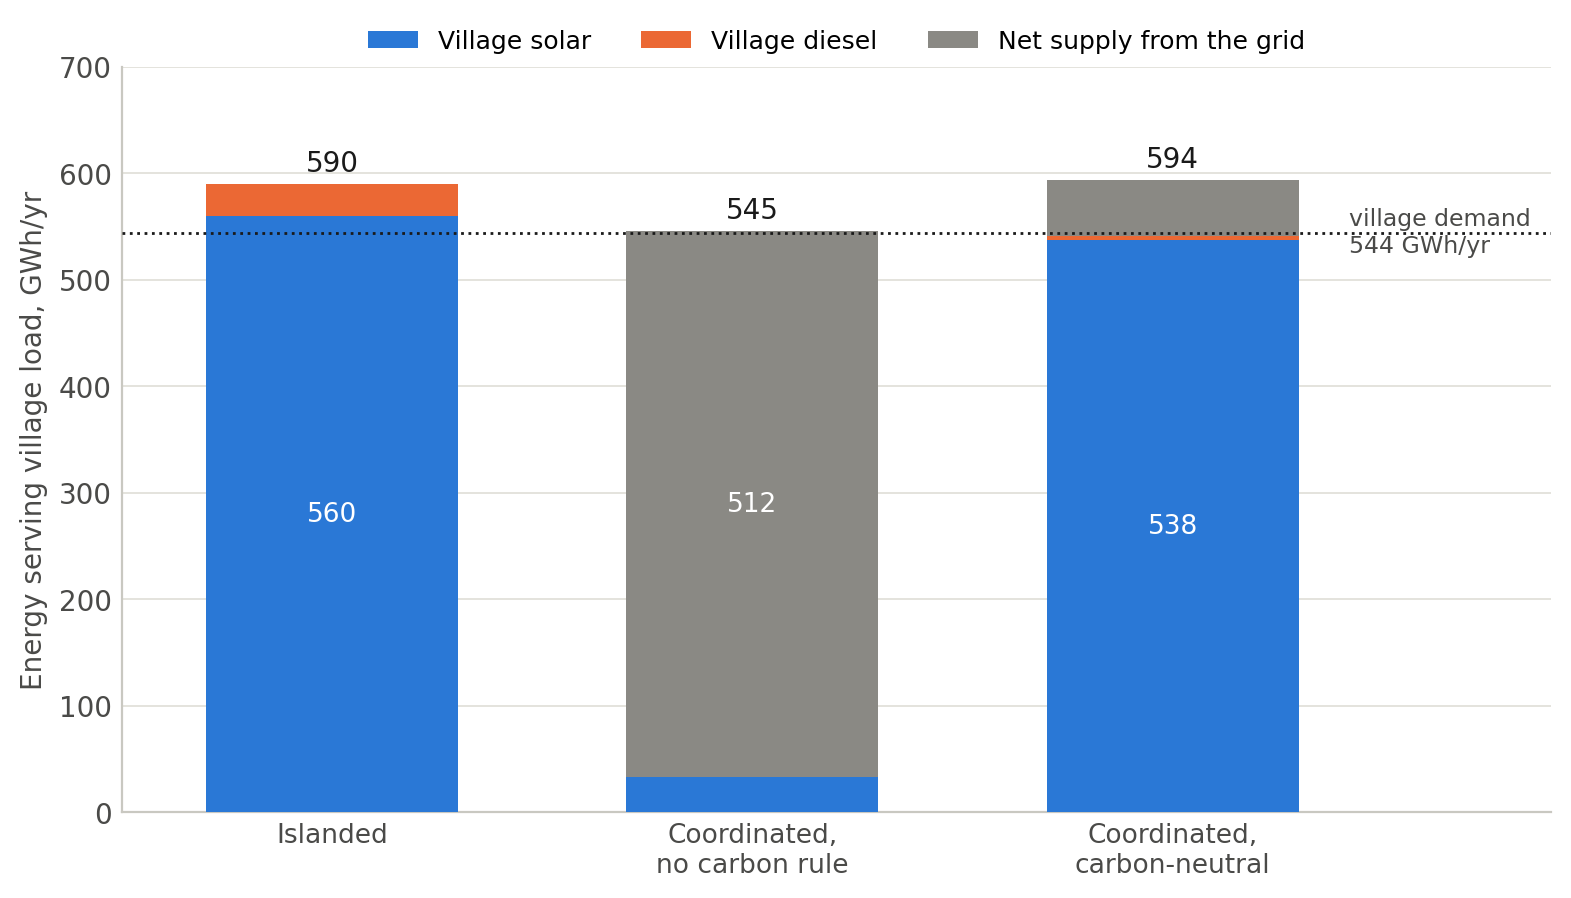
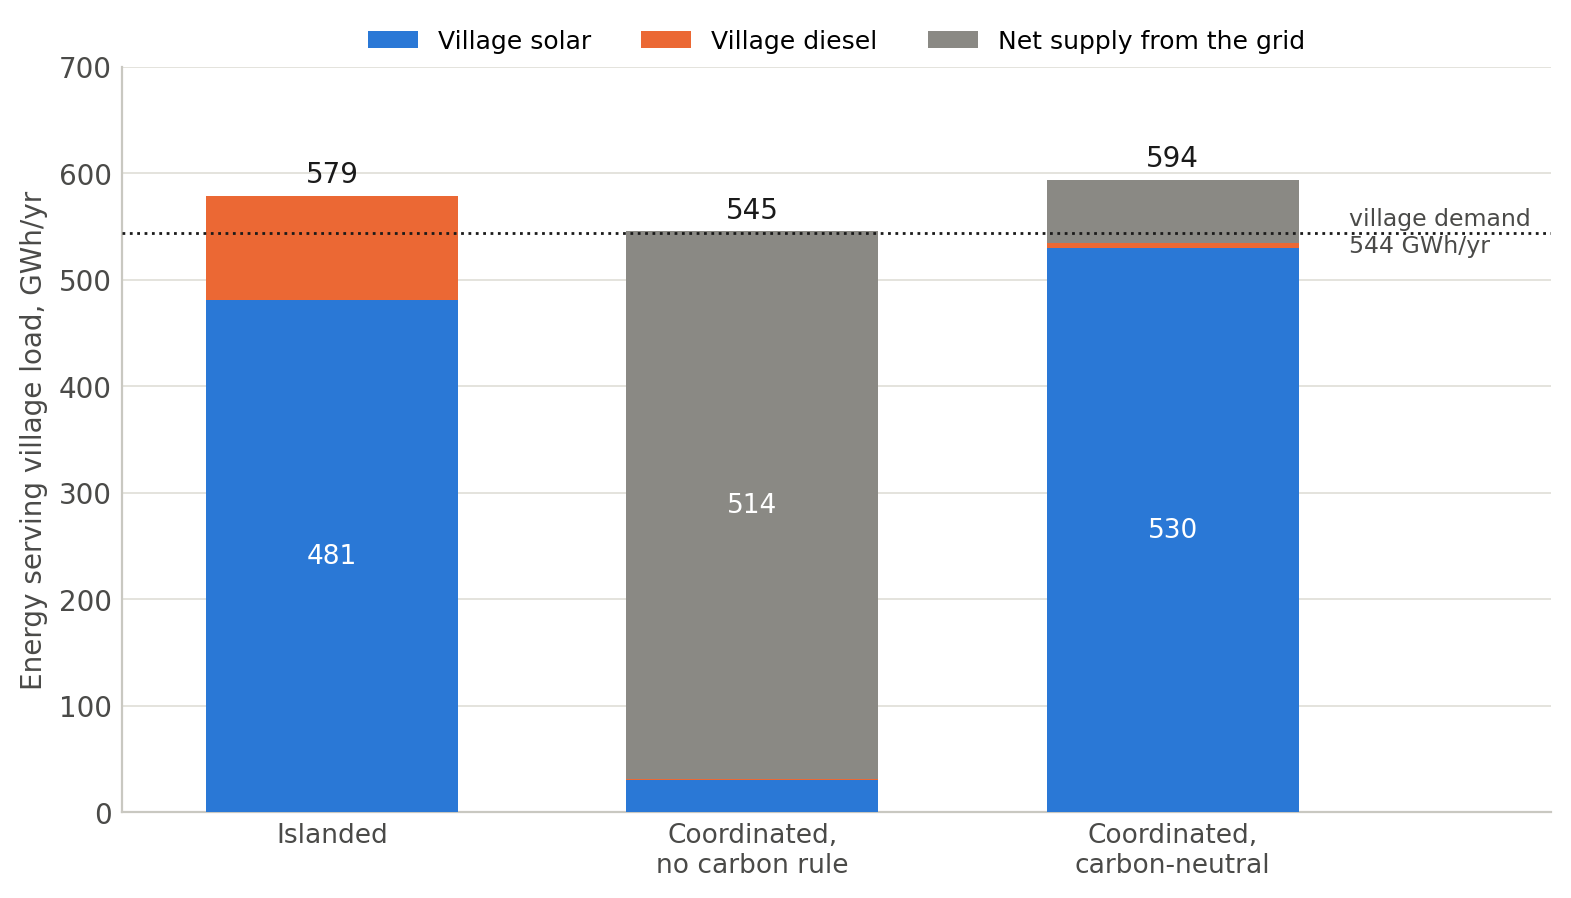
feat(report): brief figures re-based on the 4 h-battery legs (numbers of record, 2026-09-24)
Decision: the brief quotes the 4-hour-battery runs as its main result — the
standard commercial block — rather than the free-duration optimum. The figure
suite now reads village_..._reference__bd4h, gridvillage_..._reference__
fixverify_bd4h and gridvillage_..._clean__fixverify_p450_bd4h. The duration
sensitivity figure is dropped from the registry (the function stays for the
appendix), and fig9 no longer draws the search-bound range: the 2-week clean
bound was measured without the duration constraint and does not bracket the
4 h coordination value.

Headlines at 4 h: islanded $106.1 M/yr system ($73.6 M village-only), kit
0.75 kWp + 1.35 kWh per household, diesel 17 % of village energy and 26 % of
cost; unconstrained coordination $27.1 M/yr (750 connected, +55 % CO2);
carbon-neutral $8.1 M/yr floor (450 connected, 7 % below islanded CO2 —
the caps were measured on the fully optimised islanded plan, which the 4 h
plan does not reach).

diff --git a/tools/plot_brief_figures.py b/tools/plot_brief_figures.py
@@ -10,17 +10,16 @@ one font size ladder, white background, 200 dpi.
     python tools/plot_brief_figures.py --only kit cost_stack
 
 Result folders (ERA5 weather, full 8-week model; see RUN_LOG 2026-09-20):
-  islanded          results/village_timor__marketfix_era5_2030_reference   (+ __bd4h, __bd2h)
-  unconstrained     results/gridvillage_timor__marketfix_era5_2030_reference__fixverify (+ __fixverify_tb)
-  carbon-neutral    results/gridvillage_timor__marketfix_era5_2030_clean__fixverify_p450
+  islanded          results/village_timor__marketfix_era5_2030_reference__bd4h
+  unconstrained     results/gridvillage_timor__marketfix_era5_2030_reference__fixverify_bd4h
+  carbon-neutral    results/gridvillage_timor__marketfix_era5_2030_clean__fixverify_p450_bd4h
 The carbon-neutral ceiling is parsed from jobs/e5_w2c_gridvillage/solve.log
 (the 2-week clean root bound) against the 2-week islanded LP. Override any
 folder with --root / the RUNS table below when the seeded search lands.
 
 Figures:
   village_map        Fig 1  where the villages are, by kabupaten, on the basemap
-  kit                Fig 2  solar and battery sizing per MW of peak; diesel before/after
-  duration           Fig 2b the kit at 5.9 / 4 / 2 h battery
+  kit                Fig 2  solar and battery per household; diesel before/after
   cost_stack         Fig 3  islanded annual cost by component
   three_regimes      Fig 4  cost, CO2, village solar, villages connected
   village_supply     Fig 5  energy serving village load, by source, per regime
@@ -51,15 +50,14 @@ DATA = os.path.join(REPO, "data_indonesia", "2030", "timor")
 OUT = os.path.join(RESULTS, "figures", "brief")
 
 DS = "timor__marketfix_era5"
+# Numbers of record (decision 2026-09-24): the 4 h-battery legs of every regime.
 RUNS = {
-    "islanded":      f"village_{DS}_2030_reference",
-    "islanded_4h":   f"village_{DS}_2030_reference__bd4h",
-    "islanded_2h":   f"village_{DS}_2030_reference__bd2h",
-    "unconstrained": f"gridvillage_{DS}_2030_reference__fixverify",
-    "unconstrained_tb": f"gridvillage_{DS}_2030_reference__fixverify_tb",
-    "carbon_neutral": f"gridvillage_{DS}_2030_clean__fixverify_p450",
+    "islanded":      f"village_{DS}_2030_reference__bd4h",
+    "unconstrained": f"gridvillage_{DS}_2030_reference__fixverify_bd4h",
+    "carbon_neutral": f"gridvillage_{DS}_2030_clean__fixverify_p450_bd4h",
     "islanded_2w":   f"village_{DS}_2w_2030_reference",
 }
+SHOW_CEILING = False   # the 2-week search bound was measured without the duration constraint
 CLEAN_SEARCH_LOG = os.path.join(REPO, "jobs", "e5_w2c_gridvillage", "solve.log")
 DIESEL_FUEL = 18.0     # $/MMBtu, fuels_data.csv
 VILLAGE_DEMAND_GWH = 544.075
@@ -220,12 +218,12 @@ def fig_kit():
     kwh = (1e3 * o["be"] / hh).dropna()
     fig, axes = plt.subplots(1, 3, figsize=(13, 4.2), gridspec_kw=dict(width_ratios=[1.2, 1.2, 0.8]))
     ax = axes[0]
-    ax.hist(kwp, bins=np.arange(0.6, 1.41, 0.02), color=BLUE, edgecolor="white", lw=0.4, zorder=3)
+    ax.hist(kwp, bins=np.arange(0.5, 1.11, 0.02), color=BLUE, edgecolor="white", lw=0.4, zorder=3)
     ax.axvline(kwp.median(), color=INK, lw=1, ls="--", zorder=4)
     ax.text(kwp.median() + 0.02, ax.get_ylim()[1] * 0.93, f"median {kwp.median():.2f}", fontsize=9.5, color=INK)
     ax.set_xlabel("Solar kWp per household"); ax.set_ylabel("Villages"); style(ax)
     ax = axes[1]
-    ax.hist(kwh, bins=np.arange(1.0, 3.01, 0.05), color=BLUE, edgecolor="white", lw=0.4, zorder=3)
+    ax.hist(kwh, bins=np.arange(0.8, 2.21, 0.04), color=BLUE, edgecolor="white", lw=0.4, zorder=3)
     ax.axvline(kwh.median(), color=INK, lw=1, ls="--", zorder=4)
     ax.text(kwh.median() + 0.05, ax.get_ylim()[1] * 0.93, f"median {kwh.median():.2f}", fontsize=9.5, color=INK)
     ax.set_xlabel("Battery kWh per household"); style(ax)
@@ -307,7 +305,7 @@ def fig_three_regimes():
 
 # ---- Fig 5: who powers the villages ------------------------------------------
 def fig_village_supply():
-    os_ = [load("islanded"), load("unconstrained_tb", tiebreak=0.01), load("carbon_neutral")]
+    os_ = [load("islanded"), load("unconstrained"), load("carbon_neutral")]
     sol = [o["solar_gwh"] for o in os_]; dsl = [o["diesel_gwh"] for o in os_]; grid = [max(o["net_grid_gwh"], 0) for o in os_]
     fig, ax = plt.subplots(figsize=(8, 4.6))
     x = np.arange(3)
@@ -396,7 +394,7 @@ def fig_kit_split():
 def fig_coordination():
     isl, unc, cn = load("islanded"), load("unconstrained"), load("carbon_neutral")
     v_unc, v_cn = isl["cost"] - unc["cost"], isl["cost"] - cn["cost"]
-    ceil = clean_ceiling()
+    ceil = clean_ceiling() if SHOW_CEILING else None
     rows = [("Village to village", 0.0, None), ("Village to grid,\nunconstrained", v_unc, None),
             ("Village to grid,\ncarbon-neutral", v_cn, ceil)]
     fig, ax = plt.subplots(figsize=(9, 3.8))
@@ -412,15 +410,16 @@ def fig_coordination():
     ax.set_yticks(range(3)); ax.set_yticklabels([r[0] for r in reversed(rows)], fontsize=10)
     ax.set_xlabel("Coordination value: islanded cost minus coordinated cost, \\$M per year")
     ax.set_xlim(-0.5, max(v_unc, ceil or 0) * 1.15); ax.set_ylim(-0.6, 2.6)
-    ax.legend(handles=[Line2D([], [], color=BLUE, lw=3, marker="o", ms=9, label="Best plan found (exact)"),
-                       Patch(color=LIGHTBLUE, label="Range to the search bound")],
-              loc="lower right", fontsize=9)
+    if ceil:
+        ax.legend(handles=[Line2D([], [], color=BLUE, lw=3, marker="o", ms=9, label="Best plan found (exact)"),
+                           Patch(color=LIGHTBLUE, label="Range to the search bound")],
+                  loc="lower right", fontsize=9)
     style(ax, ygrid=False)
     fig.tight_layout()
     save(fig, "fig9_coordination")
 
 
-FIGS = {"village_map": fig_village_map, "kit": fig_kit, "duration": fig_duration, "cost_stack": fig_cost_stack,
+FIGS = {"village_map": fig_village_map, "kit": fig_kit, "cost_stack": fig_cost_stack,
         "three_regimes": fig_three_regimes, "village_supply": fig_village_supply, "cost_vs_co2": fig_cost_vs_co2,
         "connection_basemap": fig_connection_basemap, "kit_split": fig_kit_split, "coordination": fig_coordination}
 
